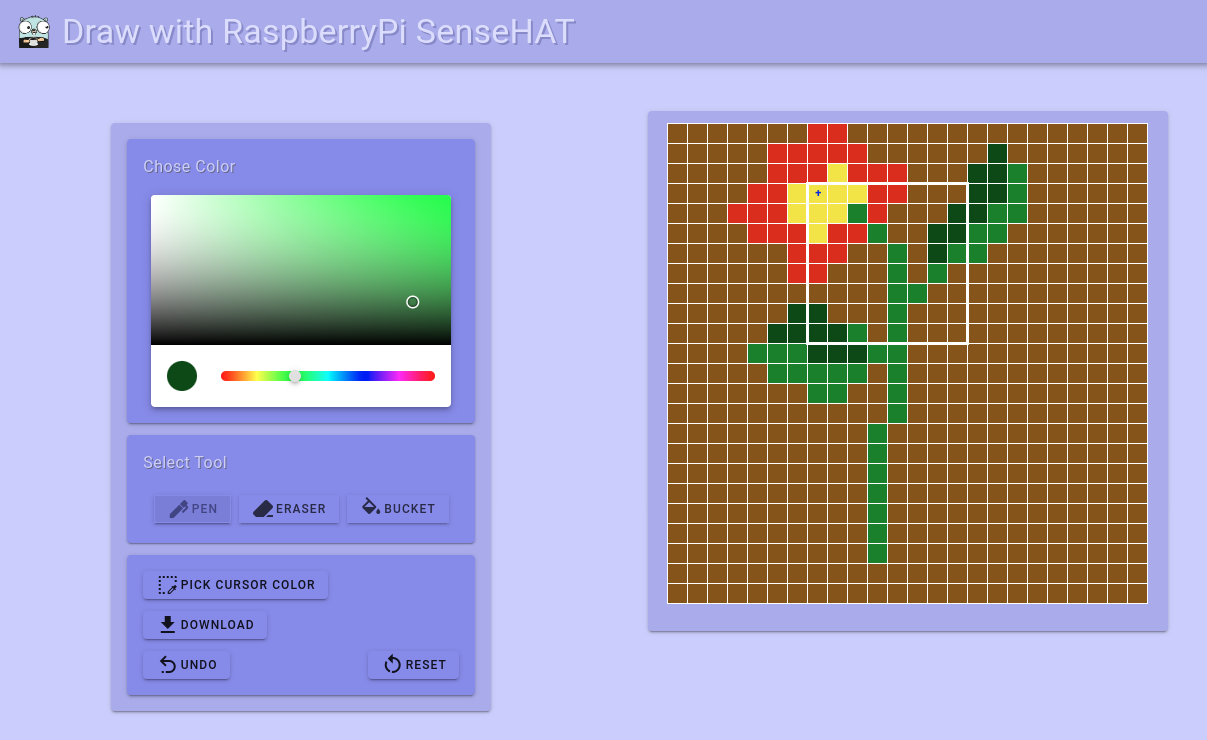
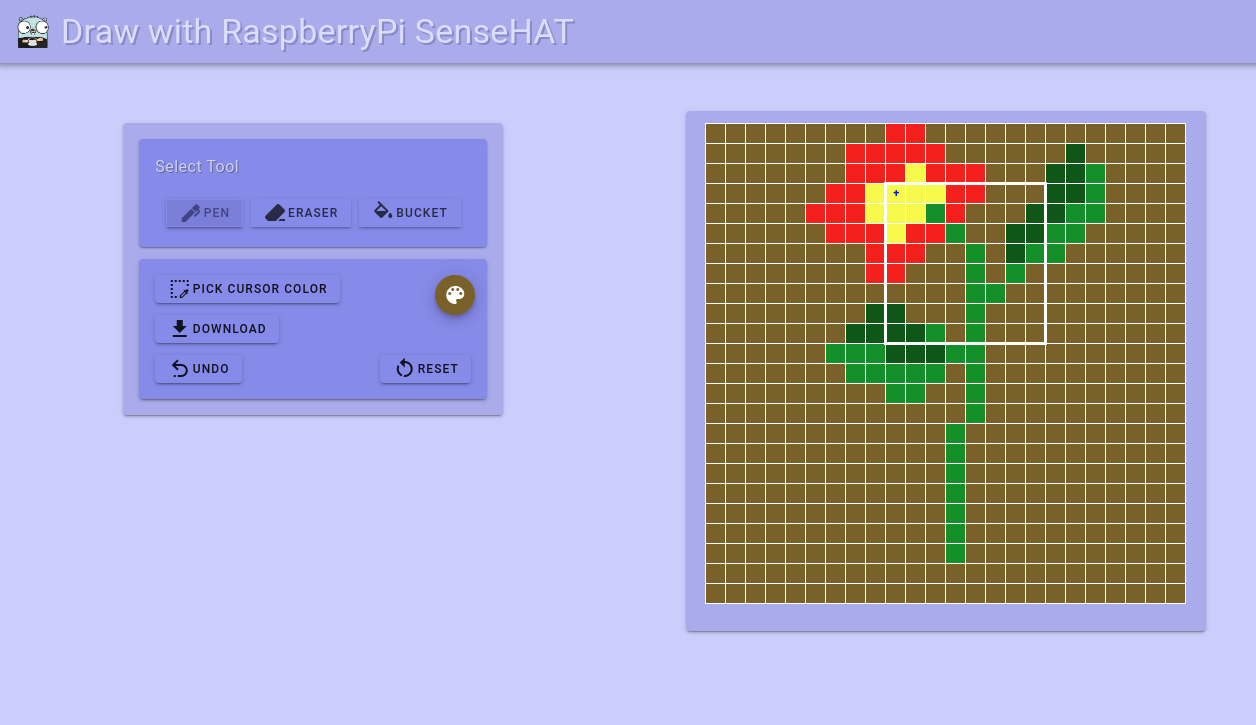
Redo the color picker UI
Write the color picker again, to be a colored button that opens a dialog
instead of sending set-color request for every color change in the
original picker.

That makes the UI more clear, and prevent unwanted calls to the webapp.

diff --git a/webapp/ui/src/components/ColorButton.vue b/webapp/ui/src/components/ColorButton.vue
@@ -1,0 +1,114 @@
+<template>
+  <div>
+    <v-tooltip bottom :color="color">
+      <template v-slot:activator="{ on, attrs }">
+        <v-btn
+            class="mx-2"
+            fab
+            small
+            :color="color"
+            :disabled="disabled"
+            @click.stop="onClick"
+            v-bind="attrs"
+            v-on="on"
+        >
+          <v-icon :color="textColor">
+            mdi-palette
+          </v-icon>
+        </v-btn>
+      </template>
+      <span :style="{'color': textColor}">Select Color</span>
+    </v-tooltip>
+    <v-dialog v-model="showDialog" max-width="350">
+      <v-card>
+        <v-card-title class="headline">
+          Choose a color
+        </v-card-title>
+        <v-card-text>
+          <v-color-picker
+              v-model="selectedColor"
+              mode="hexa"
+              hide-inputs
+              elevation="4"
+              flat
+              :disabled="disabled"
+          />
+        </v-card-text>
+        <v-card-actions>
+          <v-spacer></v-spacer>
+          <v-btn
+              color="green darken-1"
+              text
+              @click="cancel"
+          >
+            <v-icon>mdi-cancel</v-icon>
+            Cancel
+          </v-btn>
+          <v-btn
+              color="green darken-1"
+              text
+              @click="chooseColor"
+          >
+            <v-icon>mdi-eyedropper</v-icon>
+            Choose Color
+          </v-btn>
+        </v-card-actions>
+      </v-card>
+    </v-dialog>
+  </div>
+</template>
+
+<script>
+import HatService from "../services";
+
+export default {
+  name: "ColorButton",
+  data: function () {
+    return {
+      showDialog: false,
+      selectedColor: "",
+    }
+  },
+  props: [
+    "disabled",
+    "color",
+  ],
+  methods: {
+    chooseColor: function () {
+      if (this.selectedColor) {
+        HatService.setColor(this.selectedColor)
+      }
+      this.showDialog = false
+    },
+    cancel: function () {
+      this.showDialog = false
+      this.selectedColor = this.color
+    },
+    onClick: function () {
+      this.selectedColor = this.color
+      this.showDialog = true
+      if (document.activeElement instanceof HTMLElement) {
+        document.activeElement.blur()
+      }
+    },
+  },
+  // mounted() {
+  //   this.selectedColor = this.color
+  // },
+  computed: {
+    textColor: function() {
+      let clr = parseInt(Number("0x" + this.color.substring(1)))
+      if ( clr && ((clr & 0xff0000) < 0x800000) || ((clr & 0xff00) < 0x8000) || ((clr & 0xff) < 0x80)) {
+        return "white"
+      }
+      return "black"
+    }
+  },
+}
+</script>
+
+<style scoped>
+button {
+  margin-top: 1em;
+}
+</style>

diff --git a/webapp/ui/src/components/Controls.vue b/webapp/ui/src/components/Controls.vue
@@ -1,11 +1,6 @@
 <template>
   <v-card width="380" class="mx-auto my-12" align="center" color="#aaaaee">
     <v-card-text>
-      <v-row>
-        <v-col>
-          <ColorPickerWrapper v-if="!$store.state.initializing" :color="$store.state.color" :disabled="disabled"/>
-        </v-col>
-      </v-row>
       <v-spacer/>
       <v-row>
         <v-col>
@@ -24,6 +19,7 @@
                     Pick Cursor Color
                   </v-btn>
                 </v-col>
+                <ColorButton v-if="!$store.state.initializing"  :color="$store.state.color" :disabled="disabled"/>
               </v-row>
               <v-spacer/>
               <v-row>
@@ -53,15 +49,15 @@
 
 <script>
 import ToolSelector from "./ToolSelector";
-import ColorPickerWrapper from "./ColorPickerWrapper";
 import store from '../store'
 import HatService from '../services'
 import ResetButton from "./ResetButton";
 import DownloadButton from "./DownloadButton";
+import ColorButton from "@/components/ColorButton";
 
 export default {
   name: "Controls",
-  components: {ResetButton, ColorPickerWrapper, ToolSelector, DownloadButton},
+  components: {ColorButton, ResetButton, ToolSelector, DownloadButton},
   props: [
       "disabled",
   ],

diff --git a/webapp/ui/src/App.vue b/webapp/ui/src/App.vue
@@ -44,7 +44,7 @@ export default {
   },
 
   mounted: function() {
-    console.log(`Starting connection to WebSocket Server on ${location.host}`)
+    console.log(`Starting connection to WebSocket Server on ${window.location.host}`)
     const wsURL = `ws://${location.host}/api/canvas/register`;
 
     this.connection = new WebSocket(wsURL)

diff --git a/webapp/ui/vue.config.js b/webapp/ui/vue.config.js
@@ -3,6 +3,7 @@ module.exports = {
     'vuetify'
   ],
   devServer: {
-    "proxy": "http://pihatdraw:8080/"
+    "proxy": "http://raspberrypi:8080/"
+    // "proxy": "http://pihatdraw:8080/"
   }
 }
